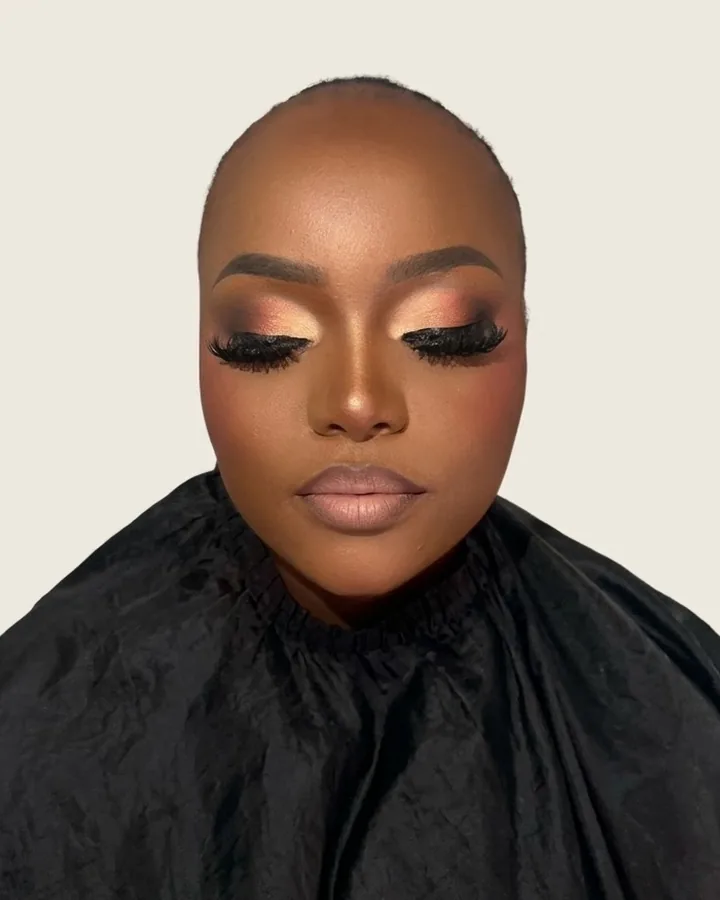
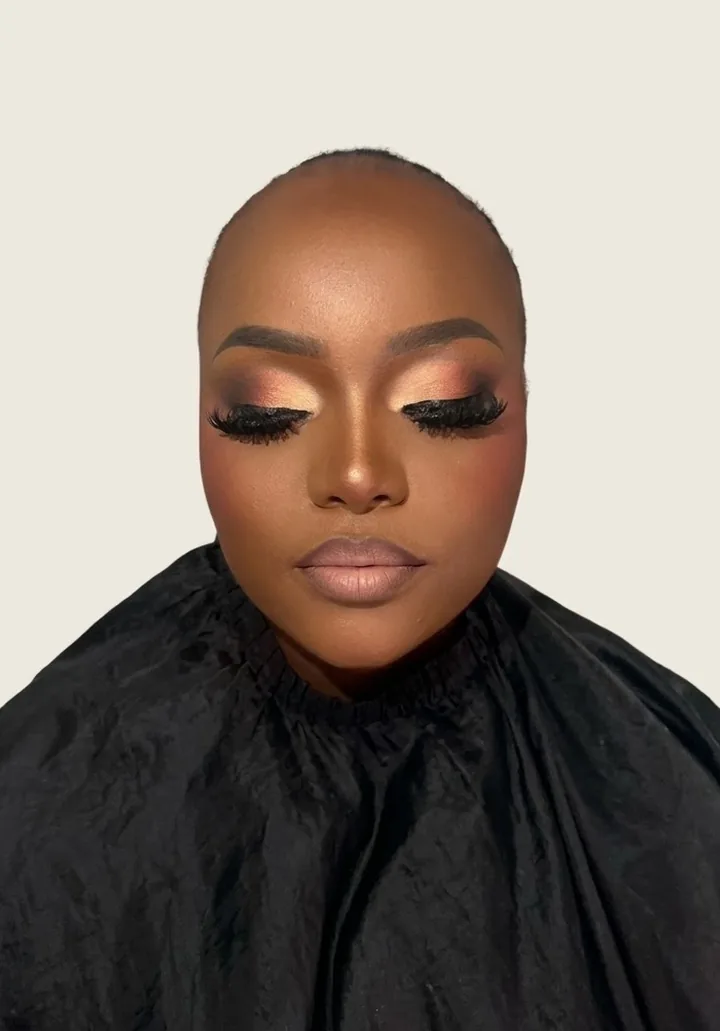
OMG site: show the gallery photos at their own shapes
OMG re-cropped three of the gallery photos (the braided updo, the copper
cut crease and the long brown waves) to three different shapes. The
gallery forced every photo into a 4:5 tile, which would have cut up to
40% off the sides of those crops.

The grid is now laid out by hand so each cell matches its photo's own
proportions: the three re-cropped photos are used exactly as supplied and
lose under 1% at any screen size.

- Wider screens: three equal columns, each a photo stacked on a tile,
  with the top and bottom edges of the columns lined up.
- Phones: the updo and waves side by side, the wide close-up full width,
  the two portraits, then the booking tile as a full-width band.

The copper-and-gold photo is cropped a little taller so its column ends
level with the others. The bronze shimmer photo is unchanged.

Claude-Session: https://claude.ai/code/session_01DgSr9EHDHqUyH4MhRVNy8N

diff --git a/omg-website/public/index.html b/omg-website/public/index.html
@@ -364,23 +364,53 @@
 
   /* ===== Gallery ===== */
   .gallery { background: var(--cocoa-800); }
+  /* The photos are different shapes, so the grid is laid out by hand: every
+     cell is sized to its photo's own proportions, and nothing gets trimmed.
+     Row and column sizes are the pixel sizes at the design width; as "fr"
+     units, with the grid's aspect-ratio, they scale together on any screen.
+     Phones: updo + waves side by side, the wide close-up full width, then the
+     two portraits, then the booking band. */
   .grid {
-    display: grid; gap: 12px;
-    grid-template-columns: repeat(2, 1fr);
+    display: grid; gap: min(12px, 3.35vw);
+    grid-template-columns: minmax(0, 173fr) minmax(0, 6.6fr) minmax(0, 154.4fr);
+    grid-template-rows: minmax(0, 177.1fr) minmax(0, 265.8fr) minmax(0, 216.2fr) minmax(0, 112fr);
+    aspect-ratio: 358 / 807.1;
     list-style: none; margin: 0; padding: 0;
   }
-  @media (min-width: 700px) { .grid { grid-template-columns: repeat(3, 1fr); gap: 20px; } }
-  .grid li { margin: 0; }
+  .grid li { margin: 0; min-width: 0; min-height: 0; }
+  .g-updo  { grid-area: 1 / 1 / 2 / 3; }
+  .g-waves { grid-area: 1 / 3 / 2 / 4; }
+  .g-wide  { grid-area: 2 / 1 / 3 / 4; }
+  .g-tall1 { grid-area: 3 / 1 / 4 / 2; }
+  .g-tall2 { grid-area: 3 / 2 / 4 / 4; }
+  .g-cta   { grid-area: 4 / 1 / 5 / 4; }
+  /* Wider screens: three equal columns, each a photo stacked on a tile, with
+     the top and bottom edges of all three columns lined up. */
+  @media (min-width: 700px) {
+    .grid {
+      gap: min(20px, 1.9vw);
+      grid-template-columns: repeat(3, minmax(0, 1fr));
+      grid-template-rows: minmax(0, 267.3fr) minmax(0, 45.4fr) minmax(0, 60.3fr) minmax(0, 369.7fr);
+      aspect-ratio: 1120 / 802.7;
+    }
+    .g-updo  { grid-area: 1 / 1 / 3 / 2; }
+    .g-wide  { grid-area: 1 / 2 / 2 / 3; }
+    .g-waves { grid-area: 1 / 3 / 4 / 4; }
+    .g-tall1 { grid-area: 3 / 1 / 5 / 2; }
+    .g-tall2 { grid-area: 2 / 2 / 5 / 3; }
+    .g-cta   { grid-area: 4 / 3 / 5 / 4; }
+  }
   .shot {
-    aspect-ratio: 4 / 5; width: 100%; height: auto;
+    width: 100%; height: 100%;
     object-fit: cover;
     border-radius: 20px;
     border: 3px solid var(--gold-200);
     box-shadow: 0 16px 34px -18px rgba(0,0,0,.85);
     background: var(--cocoa-700);
   }
+  .g-tall2 .shot { object-position: 50% 40%; }
   .cta-tile {
-    aspect-ratio: 4 / 5; height: 100%;
+    height: 100%;
     display: flex; flex-direction: column; justify-content: center; align-items: flex-start; gap: 10px;
     padding: 18px;
     border-radius: 20px;
@@ -730,12 +760,12 @@
         <h2 id="gallery-title" class="script-title">the glam</h2>
       </div>
       <ul class="grid">
-        <li><img class="shot" src="/img/gallery/glam-1.webp" srcset="/img/gallery/glam-1-360.webp 360w, /img/gallery/glam-1.webp 720w" sizes="(max-width: 699px) 46vw, 350px" width="720" height="900" loading="lazy" decoding="async" alt="Soft glam makeup with a mauve lip, worn with a braided updo"></li>
-        <li><img class="shot" src="/img/gallery/glam-2.webp" srcset="/img/gallery/glam-2-360.webp 360w, /img/gallery/glam-2.webp 720w" sizes="(max-width: 699px) 46vw, 350px" width="720" height="900" loading="lazy" decoding="async" alt="Copper cut-crease eyeshadow with full lashes and a nude lip"></li>
-        <li><img class="shot" src="/img/gallery/glam-3.webp" srcset="/img/gallery/glam-3-360.webp 360w, /img/gallery/glam-3.webp 720w" sizes="(max-width: 699px) 46vw, 350px" width="720" height="900" loading="lazy" decoding="async" alt="Glam makeup with blue liner and a nude lip, worn with long brown waves"></li>
-        <li><img class="shot" src="/img/gallery/glam-4.webp" srcset="/img/gallery/glam-4-360.webp 360w, /img/gallery/glam-4.webp 720w" sizes="(max-width: 699px) 46vw, 350px" width="720" height="900" loading="lazy" decoding="async" alt="Bronze shimmer eyeshadow with full lashes and a nude lip"></li>
-        <li><img class="shot" src="/img/gallery/glam-5.webp" srcset="/img/gallery/glam-5-360.webp 360w, /img/gallery/glam-5.webp 720w" sizes="(max-width: 699px) 46vw, 350px" width="720" height="900" loading="lazy" decoding="async" alt="Copper and gold eyeshadow with dramatic lashes and a nude lip"></li>
-        <li>
+        <li class="g-updo"><img class="shot" src="/img/gallery/glam-1.webp" srcset="/img/gallery/glam-1-360.webp 360w, /img/gallery/glam-1.webp 720w" sizes="(max-width: 699px) 54vw, 350px" width="720" height="665" loading="lazy" decoding="async" alt="Soft glam makeup with a mauve lip, worn with a braided updo"></li>
+        <li class="g-wide"><img class="shot" src="/img/gallery/glam-2.webp" srcset="/img/gallery/glam-2-360.webp 360w, /img/gallery/glam-2.webp 720w" sizes="(max-width: 699px) 92vw, 350px" width="720" height="535" loading="lazy" decoding="async" alt="Copper cut-crease eyeshadow with full lashes and a nude lip"></li>
+        <li class="g-waves"><img class="shot" src="/img/gallery/glam-3.webp" srcset="/img/gallery/glam-3-360.webp 360w, /img/gallery/glam-3.webp 720w" sizes="(max-width: 699px) 44vw, 350px" width="720" height="826" loading="lazy" decoding="async" alt="Glam makeup with blue liner and a nude lip, worn with long brown waves"></li>
+        <li class="g-tall1"><img class="shot" src="/img/gallery/glam-4.webp" srcset="/img/gallery/glam-4-360.webp 360w, /img/gallery/glam-4.webp 720w" sizes="(max-width: 699px) 46vw, 350px" width="720" height="900" loading="lazy" decoding="async" alt="Bronze shimmer eyeshadow with full lashes and a nude lip"></li>
+        <li class="g-tall2"><img class="shot" src="/img/gallery/glam-5.webp" srcset="/img/gallery/glam-5-360.webp 360w, /img/gallery/glam-5.webp 720w" sizes="(max-width: 699px) 46vw, 350px" width="720" height="1031" loading="lazy" decoding="async" alt="Copper and gold eyeshadow with dramatic lashes and a nude lip"></li>
+        <li class="g-cta">
           <a class="cta-tile" href="https://wa.me/27785767604?text=Hi%20OMG%21%20I%27d%20like%20to%20book%20a%20glam%20session.%0A%0AService%3A%0ADate%3A%0ATime%3A%0AHome%20call%3F%20%28yes%2Fno%2C%20and%20your%20area%29%3A" target="_blank" rel="noopener">
             <strong>Your turn.</strong>
             <span>Book your glam on WhatsApp <svg class="icon" aria-hidden="true"><use href="#i-arrow"/></svg></span>

diff --git a/omg-website/README.md b/omg-website/README.md
@@ -52,7 +52,7 @@ cd omg-website/public && python3 -m http.server 8080
 | File | What it is |
 | --- | --- |
 | `img/logo.webp`, `img/logo@2x.webp`, `img/logo.png` | The OMG logo, cut out of the poster onto a transparent background |
-| `img/gallery/glam-*.webp` | Five looks supplied by OMG, each cropped to 4:5 at 720×900, with a 360×450 copy for phones |
+| `img/gallery/glam-*.webp` | Five looks supplied by OMG, 720px wide, each with a 360px copy for phones. `glam-1` to `glam-3` are used exactly as OMG cropped them |
 | `og.jpg` | 1200×630 link-preview card |
 | `favicon.png`, `apple-touch-icon.png`, `img/icon-*.png` | The swirled "O" from the logo |
 | `img/contours.svg` | The swirled background pattern, redrawn as vector |
@@ -60,6 +60,8 @@ cd omg-website/public && python3 -m http.server 8080
 The logo and icons were cut from a 702×713 photo of the poster, so they are
 soft at large sizes. Swap in the original logo file whenever it is available.
 
-To change the gallery, replace the `glam-*.webp` files with photos of the same
-shape (4:5 portrait). To add or remove a photo, add or remove its `<li>` in the
-gallery list in `index.html`.
+The gallery photos are different shapes, so the grid is laid out by hand: each
+cell is sized to its photo's own proportions and nothing is trimmed. Swapping a
+photo for one of the same shape needs no code change. A photo of a different
+shape, or adding or removing one, means updating the row and column sizes in
+the `.grid` rules in `index.html`; the comment there explains how they work.
